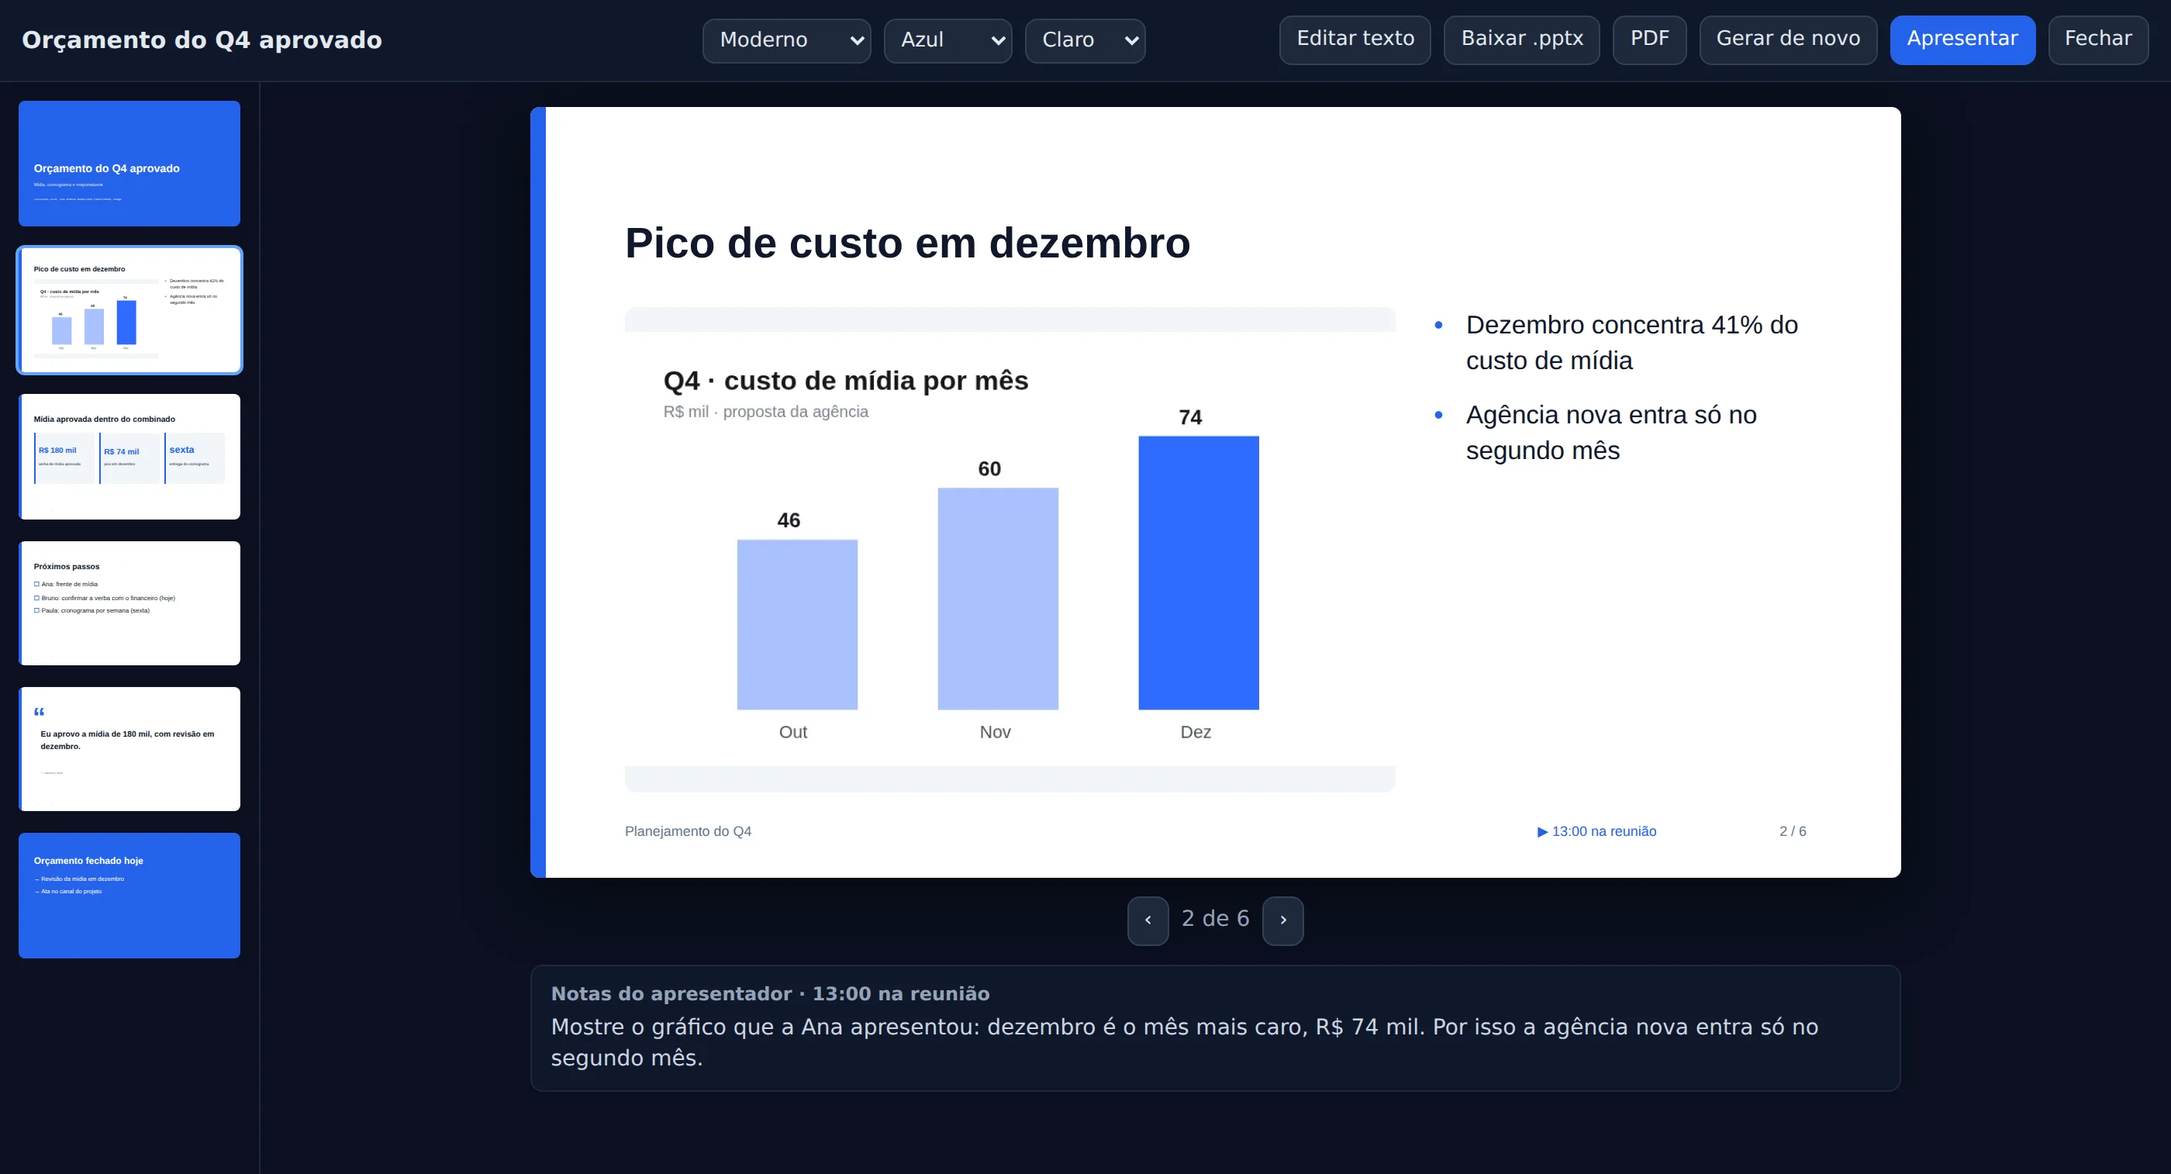
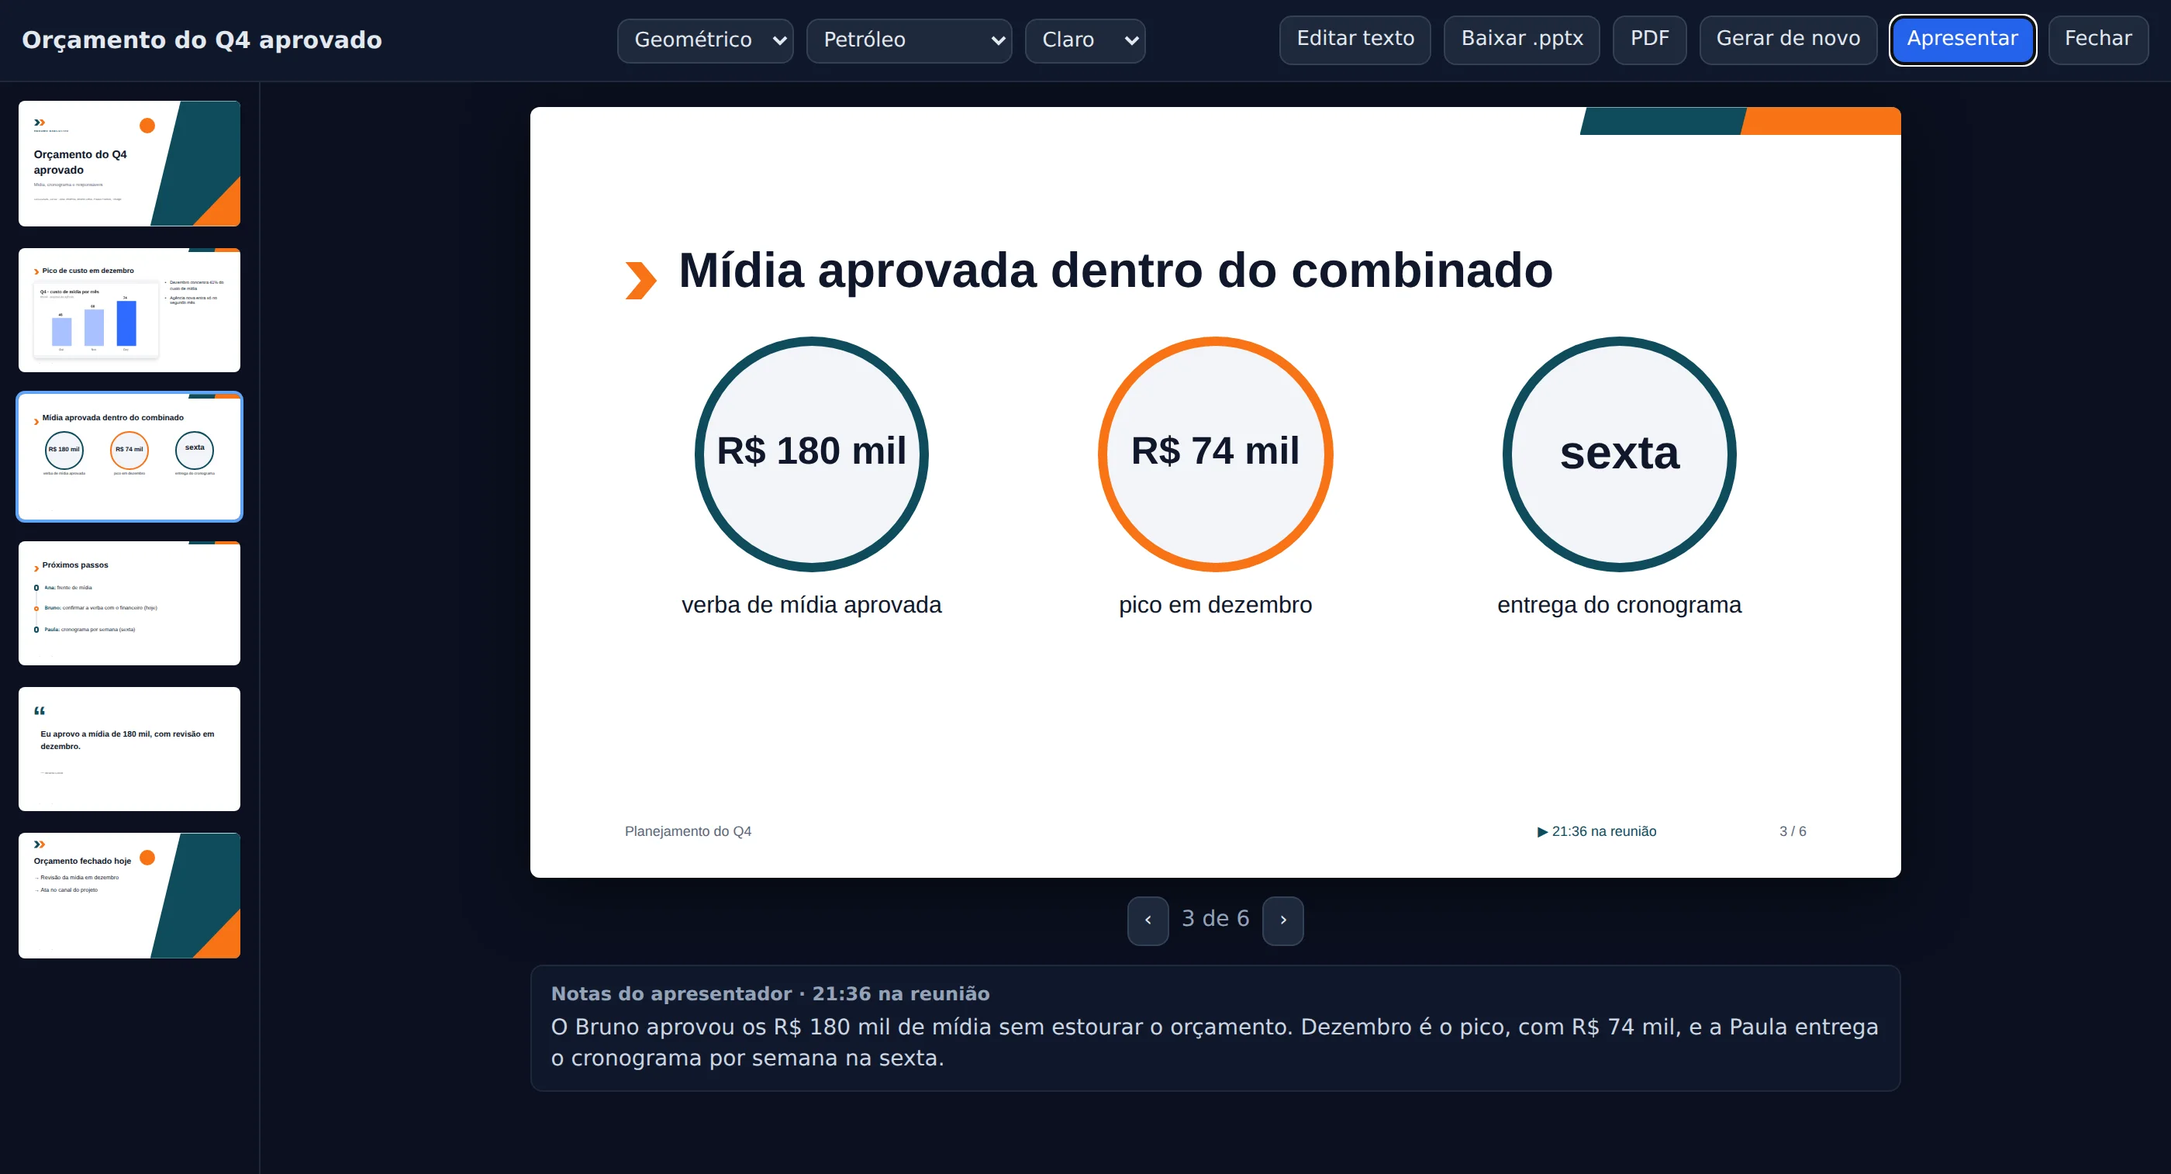
0.9.80 beta: slides em 8 estilos com elementos gráficos, paleta própria salva e estilo Institucional

diff --git a/extension/src/lib/slides.js b/extension/src/lib/slides.js
@@ -37,12 +37,12 @@ export const DECK_STYLES = [
   { id: "consultoria", label: "Consultoria", hint: "Título que diz a conclusão, fios e tabela de ações",
     title: font("Georgia, 'Times New Roman', serif", "Georgia"), body: font("Arial, 'Helvetica Neue', sans-serif", "Arial"), cw: 0.52,
     cover: "split", head: "tracker", list: "square", stats: "topline", actions: "rows", quote: "band", foot: "source", closing: "list", radius: 0 },
-  { id: "institucional", label: "Institucional", hint: "Cores próprias: azul-marinho e dourado, sóbrio e formal", fixed: true,
-    title: font("Georgia, 'Times New Roman', serif", "Georgia", 700), body: font(SANS, "Segoe UI"), cw: 0.52,
-    cover: "frame", head: "rule2", list: "square", stats: "topline", actions: "rows", quote: "side", foot: "stripe", closing: "frame", radius: 4,
-    colors: { a: "0B2545", b: "C9A227" },
-    claro: { bg: "FFFFFF", fg: "0B1B33", muted: "5A6B82", surface: "F2F5F9", line: "DCE3EC" },
-    escuro: { bg: "081526", fg: "EEF2F7", muted: "9DB0C8", surface: "0F2038", line: "1E3554", strong: "0B2545" } },
+  { id: "institucional", label: "Institucional", hint: "Vermelho e rosa sobre branco, letra leve e balões arredondados", fixed: true, colorsLabel: "vermelho e rosa",
+    title: font("'Nunito Sans', 'Segoe UI Light', 'Segoe UI', 'Helvetica Neue', Arial, sans-serif", "Segoe UI Light", 300), body: font("'Nunito Sans', 'Segoe UI', 'Helvetica Neue', Arial, sans-serif", "Segoe UI"), cw: 0.5,
+    cover: "bubble", head: "bubble", list: "index", stats: "topline", actions: "rows", quote: "side", foot: "plain", closing: "bubble", radius: 12,
+    colors: { a: "CC2240", b: "E07A8C", soft: "FFD1DC" },
+    claro: { bg: "FFFFFF", fg: "09090B", muted: "6B6B73", surface: "FFF3F6", line: "F1D3DB" },
+    escuro: { bg: "09090B", fg: "F4F4F5", muted: "A1A1AA", surface: "17171A", line: "2A2A2F", strong: "CC2240" } },
   { id: "corporativo", label: "Corporativo", hint: "Faixa de título, cartões e linha do tempo",
     title: font(SANS, "Calibri", 700), body: font(SANS, "Calibri"), cw: 0.49,
     cover: "band", head: "band", list: "cards", stats: "cards", actions: "timeline", quote: "band", foot: "stripe", closing: "strong", radius: 10, shadow: true },
@@ -143,6 +143,7 @@ export function deckTheme(deck) {
     onStrong,
     onStrongMuted: mixColor(onStrong, strong, 0.28),
     strong2: readable(pal.b, strong, 3),
+    soft: pal.soft || mixColor(pal.b, n.bg, 0.55), // tom claro das formas de enfeite
   };
 }
 
@@ -368,6 +369,12 @@ export function slideBoxes(deck, slide, th, meta) {
   const shape = (o) => boxes.push({ type: "rect", shape: "rect", ...o });
   const tx = (o) => boxes.push(text(o));
   const R = th.radius ?? 12;
+  // balão do Institucional: dois quadrados arredondados vazados, um sobre o outro (como no símbolo da marca)
+  const bubble = (x, y, size, color, lw, alpha = 1, rot = 0) => {
+    const r = size * 0.24, o = size * 0.2;
+    shape({ shape: "round", r, x, y: y + o, w: size, h: size, fill: color, alpha: 0, line: { color, w: lw, alpha }, rot });
+    shape({ shape: "round", r, x: x + o, y, w: size, h: size, fill: color, alpha: 0, line: { color, w: lw, alpha }, rot });
+  };
   let layout = slide.layout;
   if (layout === "imagem" && !meta.hasShot(slide.shot)) layout = slide.bullets.length ? "topicos" : "secao";
   const W = SLIDE_W - PAD * 2;
@@ -381,13 +388,12 @@ export function slideBoxes(deck, slide, th, meta) {
     const atC = rightStrong ? th.onStrong : th.accent;
     let y = SLIDE_H - 52;
     let x0 = footX, x1 = SLIDE_W - PAD;
-    if (onStrong && st.cover === "frame") { y = SLIDE_H - 96; x0 = 96; x1 = SLIDE_W - 96; }
     if (st.foot === "stripe" && !onStrong) {
       shape({ x: 0, y: SLIDE_H - 8, w: SLIDE_W, h: 8, fill: th.fill, grad: { to: th.fill2, ang: 0 } });
       y = SLIDE_H - 50;
     }
     const left = st.foot === "source" ? `Fonte: ${[meta.meetingTitle, meta.date].filter(Boolean).join(", ")}` : meta.meetingTitle;
-    tx({ x: x0, y, w: 700, h: 24, paras: [para(left, 13, c, B)] });
+    tx({ x: x0, y, w: Math.min(700, x1 - 360 - x0), h: 24, paras: [para(left, 13, c, B)] });
     tx({ x: x1 - 120, y, w: 120, h: 24, align: "r", paras: [para(`${meta.index + 1} / ${meta.total}`, 13, rc, B)] });
     if (meta.at != null) tx({ x: x1 - 340, y, w: 200, h: 24, align: "r", at: meta.at, paras: [para(`▶ ${shortClock(meta.at)} na reunião`, 13, atC, B)] });
   };
@@ -410,12 +416,11 @@ export function slideBoxes(deck, slide, th, meta) {
         shape({ x: PAD, y: 184, w: W, h: 2, fill: th.fg });
         return 214;
       }
-      case "rule2": {
-        tx({ x: PAD, y: 54, w: W, h, valign: "b", field: "title", paras: [para(title, fitT([title], W, h, max, 24), th.fg, T)] });
-        shape({ x: PAD, y: 54 + h + 16, w: 72, h: 4, fill: th.fill2 });
-        shape({ x: PAD + 84, y: 54 + h + 17.5, w: W - 84, h: 1, fill: th.line });
-        shape({ shape: "diamond", x: SLIDE_W - PAD - 14, y: 30, w: 14, h: 14, fill: th.fill2 });
-        return 54 + h + 46;
+      case "bubble": {
+        bubble(SLIDE_W - 150, -64, 190, th.soft, 14, th.dark ? 0.35 : 1);
+        tx({ x: PAD, y: 56, w: W - 120, h, valign: "b", field: "title", paras: [para(title, fitT([title], W - 120, h, max, 26), th.fg, T)] });
+        shape({ x: PAD, y: 56 + h + 18, w: 64, h: 3, fill: th.fill });
+        return 56 + h + 46;
       }
       case "bar": {
         shape({ x: 0, y: 0, w: 14, h: SLIDE_H, fill: th.fill, grad: { to: th.fill2, ang: 90 } });
@@ -491,6 +496,17 @@ export function slideBoxes(deck, slide, th, meta) {
       });
       return;
     }
+    if (kind === "index" && n <= 5) { // como um sumário: texto, número grande à direita e fio embaixo
+      const slot = Math.min(h / n, 104);
+      const size = Math.min(...items.map((b) => fitB([b], w - 150, slot - 24, 30, 15, { gap: 0 })));
+      items.forEach((b, i) => {
+        const yy = y + i * slot;
+        tx({ x, y: yy, w: w - 150, h: slot - 14, valign: "ctr", field: "bullets", paras: [para(b, size, th.fg, { ...B, runs: leadRuns(b, th.fg, th.accent) })] });
+        tx({ x: x + w - 140, y: yy, w: 140, h: slot - 14, align: "r", valign: "ctr", paras: [para(two(i + 1), Math.min(54, slot * 0.55), th.accent, { ...T, bold: false })] });
+        shape({ x, y: yy + slot - 8, w, h: 1.5, fill: th.line });
+      });
+      return;
+    }
     if (kind === "badges" && n <= 6) {
       const slot = Math.min(h / n, 132);
       const size = Math.min(...items.map((b) => fitB([b], w - 84, slot - 14, 32, 16, { gap: 0 })));
@@ -550,7 +566,7 @@ export function slideBoxes(deck, slide, th, meta) {
     const kicker = kind === "cover" ? meta.kindLabel : kind === "section" ? `Parte ${two(meta.section)}` : "";
     const info = kind === "cover" ? [meta.date, meta.people].filter(Boolean).join(" · ") : "";
     const sub = kind === "cover" ? deck.subtitle : "";
-    const center = v === "glow" || v === "frame";
+    const center = v === "glow" || (v === "bubble" && kind !== "section");
     let fg = th.fg, soft = th.muted, kc = th.accent, onStrong = false;
     let area = { x: PAD, w: W };
     const useStrong = () => { bg = th.strong; fg = th.onStrong; soft = th.onStrongMuted; kc = th.strong2; onStrong = true; };
@@ -581,23 +597,32 @@ export function slideBoxes(deck, slide, th, meta) {
       shape({ shape: "parallelogram", x: 760, y: 0, w: 700, h: SLIDE_H, fill: th.strong });
       shape({ shape: "triangle", x: 1000, y: 430, w: 280, h: 290, fill: th.fill2, flipH: true });
       shape({ shape: "ellipse", x: 700, y: 96, w: 92, h: 92, fill: th.fill2 });
-      shape({ shape: "chevron", x: PAD, y: 104, w: 36, h: 40, fill: th.fill });
-      shape({ shape: "chevron", x: PAD + 30, y: 104, w: 36, h: 40, fill: th.fill2 });
+      const cy = kind === "closing" ? 44 : 104; // no encerramento o título sobe, então as setas também
+      shape({ shape: "chevron", x: PAD, y: cy, w: 36, h: 40, fill: th.fill });
+      shape({ shape: "chevron", x: PAD + 30, y: cy, w: 36, h: 40, fill: th.fill2 });
       area = { x: PAD, w: 590 };
       if (kind === "section") tx({ x: 860, y: 140, w: 360, h: 260, align: "ctr", valign: "ctr", paras: [para(two(meta.section), 180, th.onStrong, { ...T, bold: true })] });
     } else if (v === "glow") {
       shape({ shape: "ellipse", x: -260, y: -320, w: 900, h: 900, fill: th.fill, glow: th.dark ? 0.55 : 0.28 });
       shape({ shape: "ellipse", x: 700, y: 260, w: 860, h: 860, fill: th.fill2, glow: th.dark ? 0.45 : 0.25 });
       if (kind === "section") tx({ x: 0, y: 40, w: SLIDE_W, h: 300, align: "ctr", valign: "ctr", paras: [para(two(meta.section), 240, th.accent, { ...T, bold: true })] });
-    } else if (v === "frame") {
-      useStrong();
-      kc = th.fill2;
-      for (const [x, y, w, h] of [[40, 40, SLIDE_W - 80, 1.5], [40, SLIDE_H - 41.5, SLIDE_W - 80, 1.5], [40, 40, 1.5, SLIDE_H - 80], [SLIDE_W - 41.5, 40, 1.5, SLIDE_H - 80]]) shape({ x, y, w, h, fill: th.fill2 });
-      for (const [x, y, w, h] of [[52, 52, SLIDE_W - 104, 1], [52, SLIDE_H - 53, SLIDE_W - 104, 1], [52, 52, 1, SLIDE_H - 104], [SLIDE_W - 53, 52, 1, SLIDE_H - 104]]) shape({ x, y, w, h, fill: th.fill2, alpha: 0.45 });
-      shape({ shape: "diamond", x: SLIDE_W / 2 - 16, y: 108, w: 32, h: 32, fill: th.fill2 });
-      shape({ x: SLIDE_W / 2 - 120, y: 123, w: 88, h: 1.5, fill: th.fill2 });
-      shape({ x: SLIDE_W / 2 + 32, y: 123, w: 88, h: 1.5, fill: th.fill2 });
-      area = { x: 160, w: SLIDE_W - 320 };
+    } else if (v === "bubble") {
+      const k = th.dark ? 0.55 : 1;
+      if (kind === "section") {
+        bubble(-170, 40, 520, th.fill, 30, 1, -30);
+        bubble(-60, 380, 330, th.soft, 22, k, -30);
+        area = { x: 600, w: SLIDE_W - 600 - PAD };
+        tx({ x: area.x, y: 120, w: area.w, h: 200, align: "r", valign: "b", paras: [para(two(meta.section), 150, th.accent, { ...T, bold: false })] });
+      } else {
+        bubble(-110, -170, 300, th.soft, 20, k);
+        bubble(SLIDE_W - 230, -110, 320, th.fill2, 24, k);
+        if (kind === "cover") { // no encerramento, os cantos de baixo ficam livres para o rodapé
+          bubble(-140, 500, 320, th.fill2, 24, k);
+          bubble(SLIDE_W - 170, 540, 280, th.soft, 20, k);
+          bubble(SLIDE_W / 2 - 26, 80, 44, th.fill, 5);
+        }
+        area = { x: 200, w: SLIDE_W - 400 };
+      }
     }
     const al = center ? "ctr" : "l";
 
@@ -621,6 +646,11 @@ export function slideBoxes(deck, slide, th, meta) {
         tx({ x: PAD, y: 536, w: W, h: 110, field: "title", paras: [para(slide.title, fitT([slide.title], W, 110, 54, 28), th.onStrong, T)] });
         footer(true);
         return true;
+      } else if (v === "bubble") {
+        tx({ x: area.x, y: 350, w: area.w, h: 30, align: "r", paras: [para(kicker, 16, th.accent, { ...B, bold: true, caps: true, ls: 0.12 })] });
+        tx({ x: area.x, y: 392, w: area.w, h: 170, align: "r", field: "title", paras: [para(slide.title, fitT([slide.title], area.w, 170, 58, 30), fg, T)] });
+        shape({ x: area.x, y: 580, w: area.w, h: 1.5, fill: th.line });
+        footX = area.x;
       } else {
         tx({ x: area.x, y: ky, w: area.w, h: 32, align: al, paras: [para(kicker, 18, kc, { ...B, bold: true, caps: true, ls: 0.12 })] });
         tx({ x: area.x, y: ky + 46, w: area.w, h: 200, align: al, field: "title", paras: [para(slide.title, fitT([slide.title], area.w, 200, 60, 32), fg, T)] });
@@ -789,7 +819,7 @@ function shapeHtml(b) {
   if (clip) css += `clip-path:${clip};`;
   if (b.line) css += `border:${cq(b.line.w)} solid ${rgba(b.line.color, b.line.alpha ?? 1)};`;
   if (b.shadow) css += `box-shadow:0 ${cq(4)} ${cq(18)} rgba(15,23,42,.12);`;
-  if (b.flipH || b.flipV) css += `transform:scale(${b.flipH ? -1 : 1},${b.flipV ? -1 : 1});`;
+  if (b.flipH || b.flipV || b.rot) css += `transform:${b.rot ? `rotate(${b.rot}deg) ` : ""}scale(${b.flipH ? -1 : 1},${b.flipV ? -1 : 1});`;
   return `<div class="esd-rect" style="${css}"></div>`;
 }
 
@@ -902,7 +932,7 @@ function pptxShape(b, id) {
   else if (a <= 0) fill = "<a:noFill/>";
   else fill = `<a:solidFill>${clr(b.fill, a)}</a:solidFill>`;
   const ln = b.line ? `<a:ln w="${Math.round(b.line.w * EMU)}"><a:solidFill>${clr(b.line.color, b.line.alpha ?? 1)}</a:solidFill></a:ln>` : "<a:ln><a:noFill/></a:ln>";
-  const flip = `${b.flipH ? ' flipH="1"' : ""}${b.flipV ? ' flipV="1"' : ""}`;
+  const flip = `${b.rot ? ` rot="${Math.round((((b.rot % 360) + 360) % 360) * 60000)}"` : ""}${b.flipH ? ' flipH="1"' : ""}${b.flipV ? ' flipV="1"' : ""}`;
   return `<p:sp><p:nvSpPr><p:cNvPr id="${id}" name="Forma ${id}"/><p:cNvSpPr/><p:nvPr/></p:nvSpPr><p:spPr>${xfrm(b.x, b.y, b.w, b.h).replace("<a:xfrm>", `<a:xfrm${flip}>`)}<a:prstGeom prst="${geom}"><a:avLst>${av}</a:avLst></a:prstGeom>${fill}${ln}${b.shadow ? SHADOW : ""}</p:spPr></p:sp>`;
 }
 

diff --git a/extension/src/lib/deckview.js b/extension/src/lib/deckview.js
@@ -35,7 +35,7 @@ const swatch = (p) => `linear-gradient(135deg,#${p.a} 0 55%,#${p.b} 55% 100%)`;
 // Botões: [data-pal] escolhe, [data-pal-del] apaga uma própria, [data-pal-new] abre o editor, [data-pal-save] salva.
 export function paletteChooserHtml(o, { editing = false, attrs = "" } = {}) {
   const style = DECK_STYLES.find((z) => z.id === o.style);
-  if (style?.fixed) return `<p class="sl-pal-fixed">O estilo ${esc(style.label)} tem cores próprias (${esc(style.hint.split(":")[1]?.split(",")[0]?.trim() || "fixas")}).</p>`;
+  if (style?.fixed) return `<p class="sl-pal-fixed">O estilo ${esc(style.label)} tem cores próprias (${esc(style.colorsLabel || "fixas")}).</p>`;
   const saved = savedPalettes();
   const btn = (p, own) => `<button type="button" role="radio" aria-checked="${o.palette === p.id}" data-pal="${p.id}" ${attrs} title="${esc(p.label)}" style="--sw:${swatch(p)}"><span></span>${esc(p.label)}${own ? `<i data-pal-del="${p.id}" ${attrs} role="button" aria-label="Apagar a paleta ${esc(p.label)}" title="Apagar">×</i>` : ""}</button>`;
   const cur = paletteColors(o.palette);

diff --git a/site/index.html b/site/index.html
@@ -226,7 +226,7 @@
             <li><b>Resumo executivo, aula, status de projeto ou reunião comercial</b>, no tamanho que você escolher</li>
             <li><b>Usa as capturas de tela</b>: gráficos e slides compartilhados entram na apresentação</li>
             <li><b>Notas do apresentador</b> em cada slide, tiradas do que foi falado</li>
-            <li>Estilo moderno, clássico ou minimalista, seis paletas e tema claro ou escuro, trocados a qualquer hora sem custo</li>
+            <li>Oito estilos, do minimalista ao geométrico, com cartões, linha do tempo e números em destaque; paletas prontas ou a sua, e tema claro ou escuro, trocados a qualquer hora sem custo</li>
             <li>Edite o texto, <b>apresente em tela cheia</b> ou baixe em <b>.pptx</b> (PowerPoint e Google Slides) e PDF</li>
           </ul>
         </div>

diff --git a/extension/CHANGELOG.md b/extension/CHANGELOG.md
@@ -2,6 +2,12 @@
 
 Uma entrada por versão, a mais nova no topo. Detalhes técnicos de cada mudança ficam no README.
 
+## 0.9.80 beta — 2026-11-13
+- **Slides mais profissionais, em 8 estilos** do mais simples ao mais elaborado: **Minimalista**, **Clássico** (serifa e fios finos), **Consultoria** (título que diz a conclusão, ações em tabela com responsável), **Institucional** (vermelho e rosa, letra leve e balões arredondados), **Corporativo** (faixa de título, tópicos em cartões, linha do tempo), **Moderno** (capa colorida com círculos, tópicos numerados), **Geométrico** (formas inclinadas, setas, números em anéis) e **Palco** (letra grande com brilho de cor, para telão). Todos no claro e no escuro.
+- **Elementos gráficos de verdade**: formas, cartões com sombra, gradientes, linha do tempo, tabela de ações e números em destaque, iguais no visualizador, no PDF e no .pptx (editáveis no PowerPoint).
+- **Crie e salve a sua paleta**: em Cores › **+ Criar paleta**, escolha a cor principal e a de apoio, dê um nome e salve. A prévia muda enquanto você escolhe, a paleta fica disponível nas próximas apresentações e pode ser apagada. As paletas prontas agora têm duas cores (8 opções).
+- No tema escuro, as cores clareiam sozinhas para o texto continuar legível. Estilo, cores e tema seguem trocáveis depois, sem gastar crédito.
+
 ## 0.9.79 beta — 2026-11-13
 - **Slides a partir da reunião**: nova aba **Slides** (na extensão e no app web). A IA monta a apresentação com o que foi dito e, se houver, com as capturas de tela da reunião (ela escolhe as que mostram gráficos, telas e slides, nunca rostos). Escolha o tipo (resumo executivo, aula ou treinamento, status de projeto ou reunião comercial), o tamanho, o estilo (moderno, clássico ou minimalista), as cores e o tema claro ou escuro, e diga o foco em instruções opcionais.
 - **Cada slide aponta o momento da reunião** de onde saiu: clique no horário e a transcrição vai direto à fala. Todos os slides vêm com **notas do apresentador** tiradas do que foi falado.

diff --git a/extension/README.md b/extension/README.md
@@ -35,6 +35,7 @@ nome para Escribanote: o ID da extensão continua o mesmo, então reuniões, aju
   gesto) e o clique conta como invocação para o `tabCapture` daquela aba. `startWeb` pede o `streamId` antes de criar a
   sessão; sem ele, a aba entra em `pendingLinks` com `web: true` e `web-start` responde `{ waiting: true }` (o painel mostra
   "Falta um clique…"; `link-pending` responde `"web"` ou `"link"`). Teste: `test/e2e-link.mjs`.
+- 0.9.80, estilos dos slides: `DECK_STYLES` descreve cada estilo por partes (capa/seção/encerramento, cabeçalho, lista, números, ações, citação, rodapé); `slideBoxes` monta formas (`rect` com `shape` ellipse/round/chevron/pentagon/parallelogram/triangle/diamond, transparência, gradiente linear, brilho radial, contorno, sombra, rotação) e textos com trechos em negrito (`runs`), desenhados igual em HTML (clip-path) e no .pptx (prstGeom). Paletas com duas cores; paleta própria no id (`c-RRGGBB-RRGGBB`), salva em `localStorage` (`escribanote.slidePalettes`, `deckview.js`). `deckTheme` garante contraste (destaque ≥ 4,5:1 sobre o fundo). O estilo Institucional tem cores próprias (`fixed`).
 - 0.9.79, slides: `lib/slides.js` (sem DOM; extensão, app web e servidor) tem o pedido à IA (`slidesRequest`, esquema JSON
   com 8 layouts: capa, secao, topicos, acoes, citacao, imagem, numeros, encerramento), a validação (`parseDeck`: horário
   colado no início da fala mais próxima, captura só se enviada e uma vez, layout inválido vira tópicos) e o desenho:
